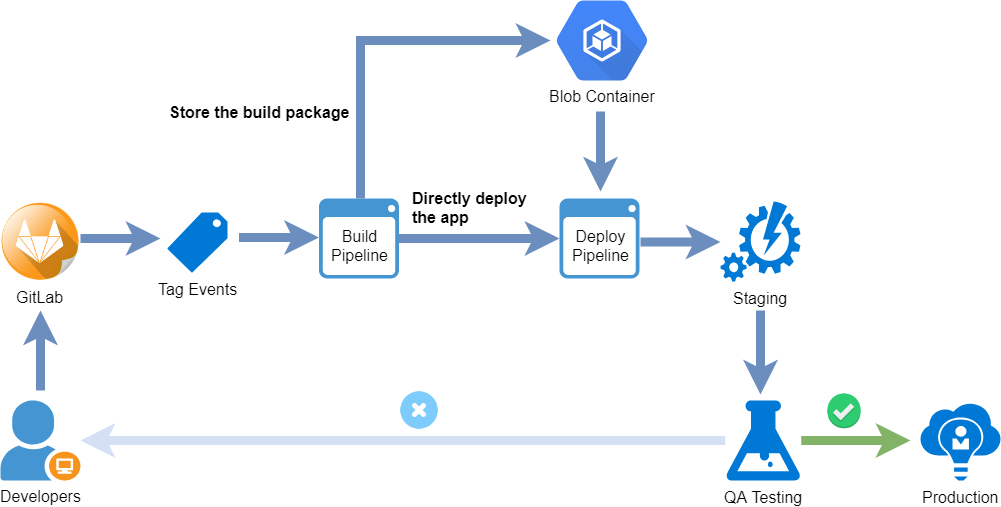
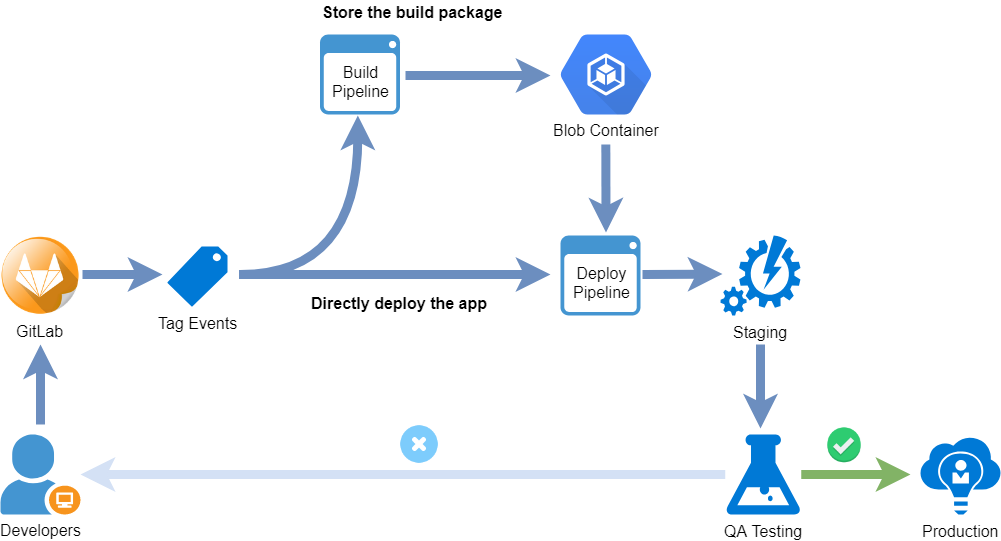
added content

diff --git a/codepipeline-howto.md b/codepipeline-howto.md
@@ -1,6 +1,6 @@
 # WISE-PaaS - CodePipeline
 
-## Structure
+## Concept
 
 <br>
 
@@ -8,7 +8,15 @@
 
 <br>
 
-- The developer pushes the source code the remote repository, such as GitLab
-- The pipeline will be triggered by a tag event
-- The pipeline can also be run manually on the WISE-PaaS CodePipeline
- 
+- The developer pushes the source code to the remote repository, such as GitLab.
+- A pipeline can be triggered by a tag event.
+- A pipeline can also be run manually on the WISE-PaaS CodePipeline.
+- A **Build Pipeline** is run to build the source code and save the build package (.zip file) to the blob container.
+- The app can be directly deployed by running the **Deploy Pipeline** on the source code.
+- If the build package has been previously saved to the blob container, the **Deploy Pipeline** will download the package from the container first and then deploy the app.
+- WISE-PaaS **CodePipeline** supports [Blue-Green Deployment](https://docs.cloudfoundry.org/devguide/deploy-apps/blue-green.html), so the staging app can wait for the QA team to finish the test successfully and switch to the production state.
+
+<br>
+
+## Build Pipeline
+
